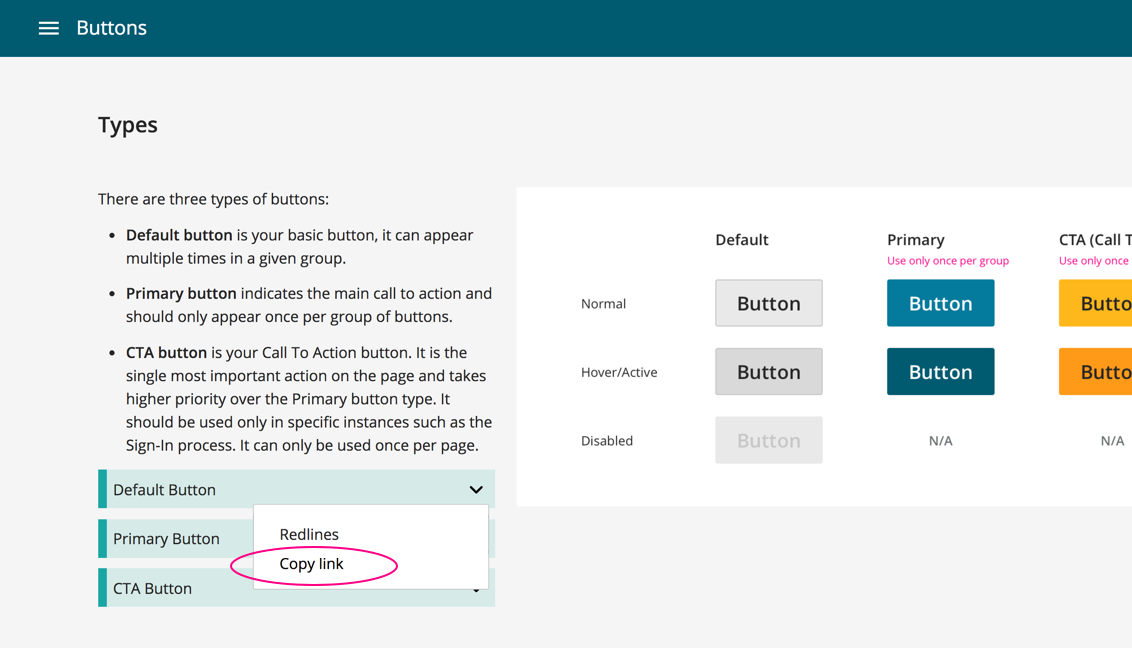
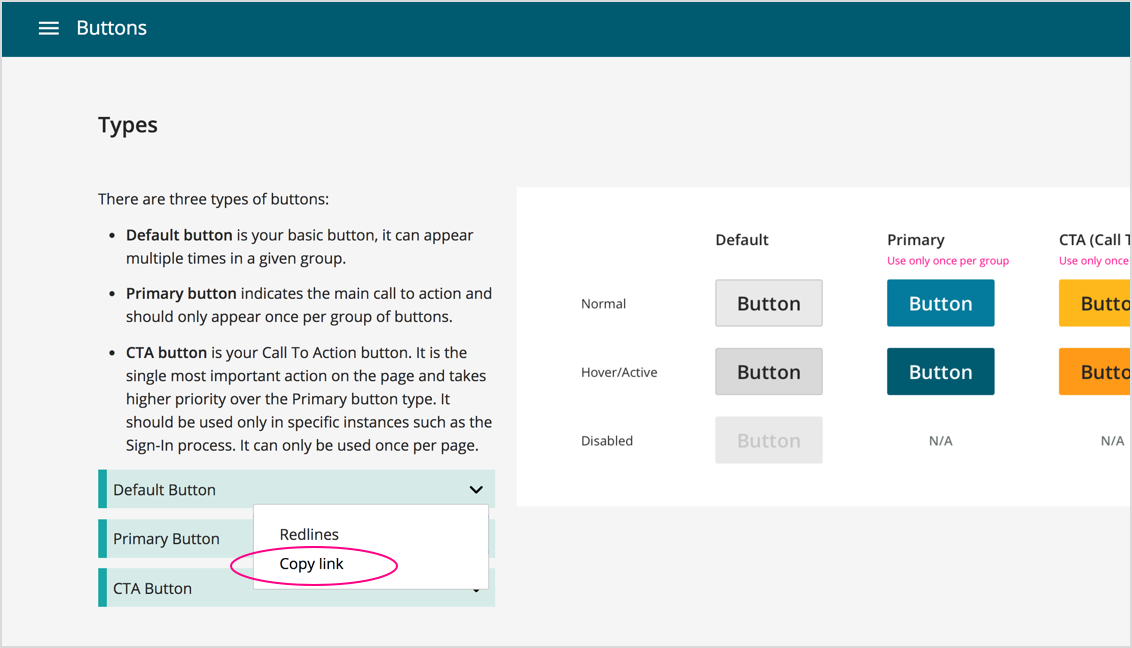
added border to image and updated copy

Changed region(s): [[0.0, 0.0, 1.0, 1.0], [0.0, 0.0, 0.0309, 0.0309]]

diff --git a/overview.md b/overview.md
@@ -40,11 +40,11 @@ We follow [semantic versioning](https://semver.org/) for managing our updates. I
 
 ## Working with engineering
 
-![](/img/features link@2.png)
-
 Each component includes a pre-built package of code for developers to incorporate the design into the final product. You don’t have to redline your use of a component. Simply note which component it is. For example, you can just point out that a button is a **large default button**, rather than creating the redlines for it.
 
-Let the developers know what component you are referring to by sharing the link to that specific feature.
+Let the developers know what component you are referring to by directing them to the specifications on the UX Framework website. You can do this by sharing  the unique link to a feature by clicking "copy link" as shown bellow:
+
+![](/img/features link@2.png)
 
 
 
